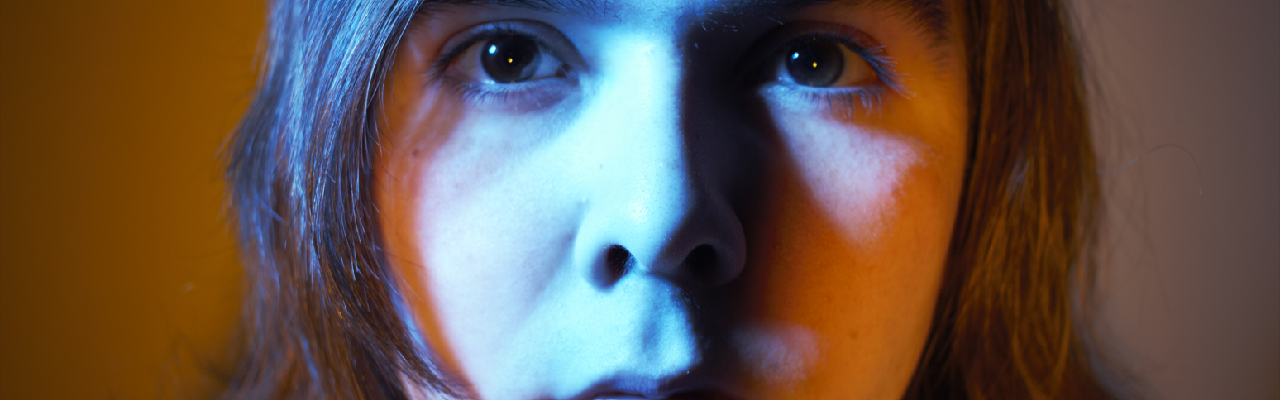
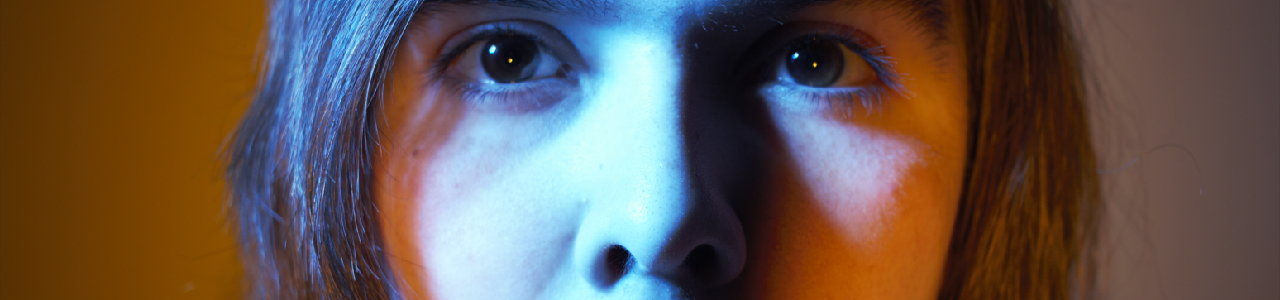
Update website

diff --git a/index.html b/index.html
@@ -1,4 +1,10 @@
 ---
 layout: home
 author_profile: true
+entries_layout: grid
+title: "I put together a website"
+tagline: "and maybe it'll be cool eventually"
+header:
+  image: /assets/images/homeheader.jpg
+  caption: "Photo credit: Myself, when I was 17"  
 ---

diff --git a/_posts/2024-07-07-A-Real-Place-For-Me.md b/_posts/2024-07-07-A-Real-Place-For-Me.md
@@ -1,0 +1,5 @@
+---
+title: A Real Place, Just For Me
+---
+# I put together a website
+I learned a lot about web frameworks and stuff, turns out making websites yourself is a lot easier than I thought and doesn't involve writing HTML, CSS, and other crap yourself. Works for me. I'm using Jekyll here to generate a static site for GitHub Pages, my host. After a few days I have this half complete website, which I will probably leave incomplete for a while till it matters more. 

diff --git a/whoami.md b/whoami.md
@@ -1,0 +1,11 @@
+---
+layout: splash
+---
+
+## Hi! I'm Skylarr. 
+
+I make games, mods for games, and a lot of other stuff for fun. 
+
+I made [Hat Kid: The Little Haberdasher] [hatkid], probably my only real public project at the moment. All my other stuff I've either pulled because I don't like it or I'm still working on, but I'll make something eventually I promise.
+
+[hatkid]: https://steamcommunity.com/sharedfiles/filedetails/?id=2865698071

diff --git a/portfiolio.md b/portfiolio.md
@@ -1,0 +1,10 @@
+---
+title: Portfolio
+layout: collection
+permalink: /portfolio/
+collection: portfolio
+entries_layout: grid
+classes: wide
+---
+
+Haven't figured out how to make this section work yet, I will eventually.

diff --git a/blog.md b/blog.md
@@ -1,0 +1,6 @@
+---
+title: This is my blog
+layout: posts
+---
+
+## These are all my blog posts.
